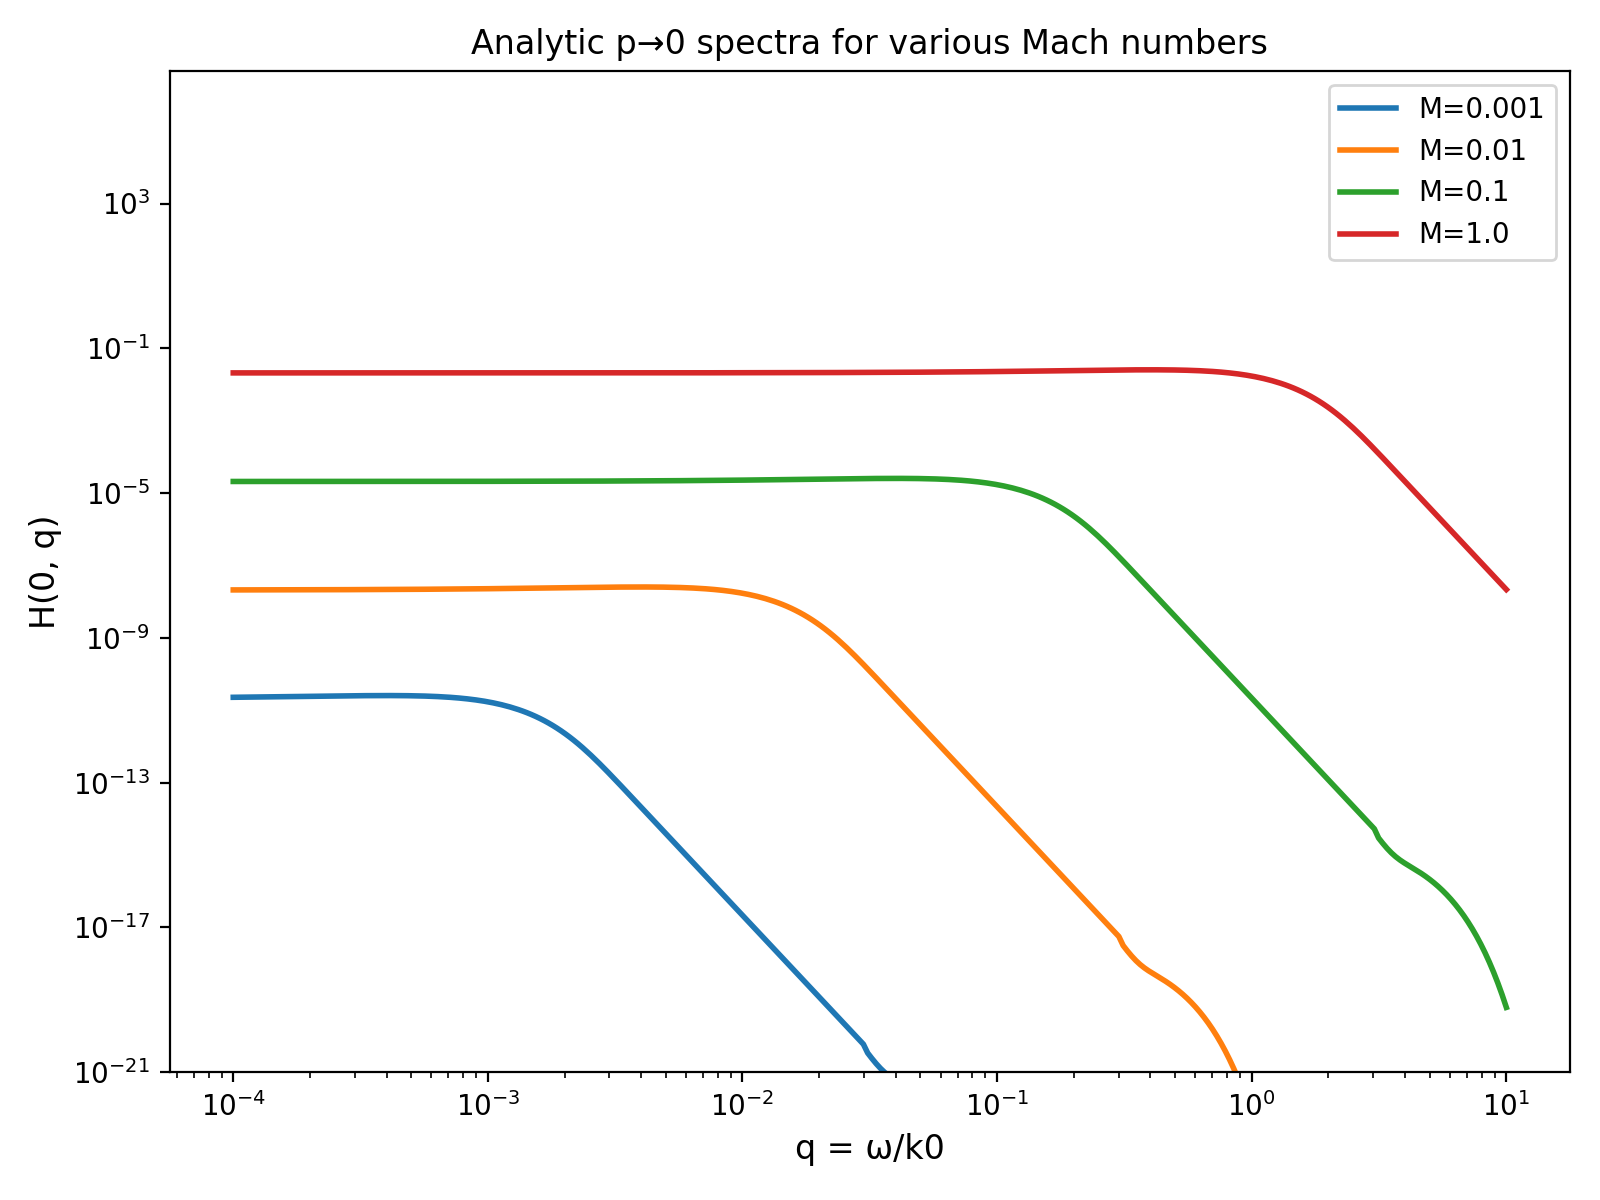
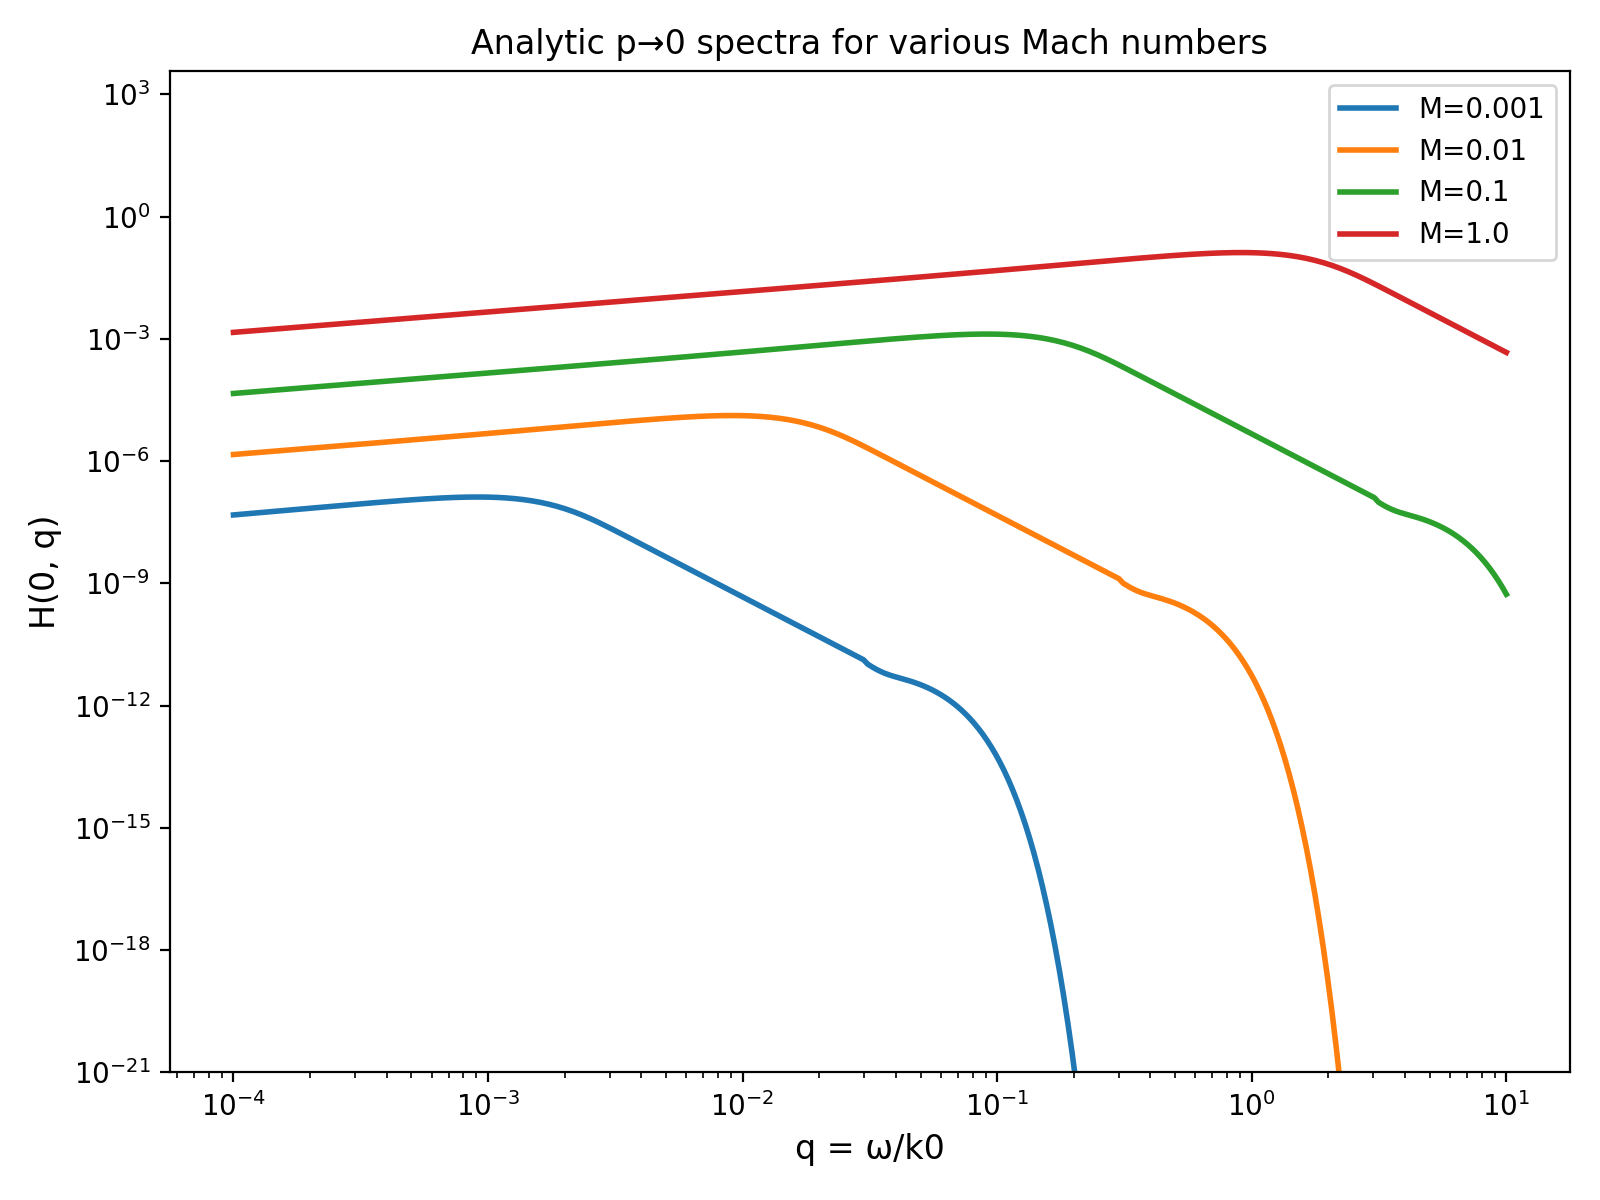
fixed missing power

diff --git a/src/compute_H.py b/src/compute_H.py
@@ -142,9 +142,9 @@ def plot_spectra_M(M_list, qmin=1e-3, qmax=10.0, nq=200, out_png='outputs/H_spec
     plt.figure(figsize=(6,4))
     for M in M_list:
         Hvals = H_k0_analytic(qs, M=M)
-        plt.loglog(qs, Hvals, label=f'M={M}')
+        plt.loglog(qs, (qs * Hvals)**(0.5), label=f'M={M}')
     plt.xlabel('q = ω/k0')
-    plt.ylabel('H (analytic p->0 scaling)')
+    plt.ylabel('h_c (analytic p->0 scaling)')
     plt.title('Spectra for various Mach numbers (p->0 analytic)')
     plt.legend()
     os.makedirs(os.path.dirname(out_png), exist_ok=True)
@@ -160,7 +160,7 @@ def plot_spectra_M_analytic(M_list, qmin=1e-4, qmax=1e1, nq=300, out_png='output
     plt.figure(figsize=(8, 6))
     for M in M_list:
         Hvals = np.array([H_k0_analytic(q, M=M, k0=1.0, R=R) for q in qs])
-        plt.loglog(qs, Hvals, label=f'M={M}', linewidth=2)
+        plt.loglog(qs,(qs * Hvals) ** (0.5), label=f'M={M}', linewidth=2)
     plt.xlabel('q = ω/k0', fontsize=12)
     plt.ylabel('H(0, q)', fontsize=12)
     plt.title('Analytic p→0 spectra for various Mach numbers', fontsize=12)
@@ -186,7 +186,7 @@ if __name__ == "__main__":
     # Option 1: Plot the correct analytic p->0 formula
     print("\n[1] Generating analytic p→0 spectra...")
     plot_spectra_M_analytic(M_values, qmin=1e-4, qmax=1e1, nq=300,
-                            out_png='outputs/H_spectra_analytic.png', R=1e6)
+                            out_png='outputs/H_spectra_analytic.png', R=1e4)
     
     # Option 2: Optional—can uncomment to run full 2D scans (slower)
     # print("[2] Generating 2D H(p,q) scan...")
